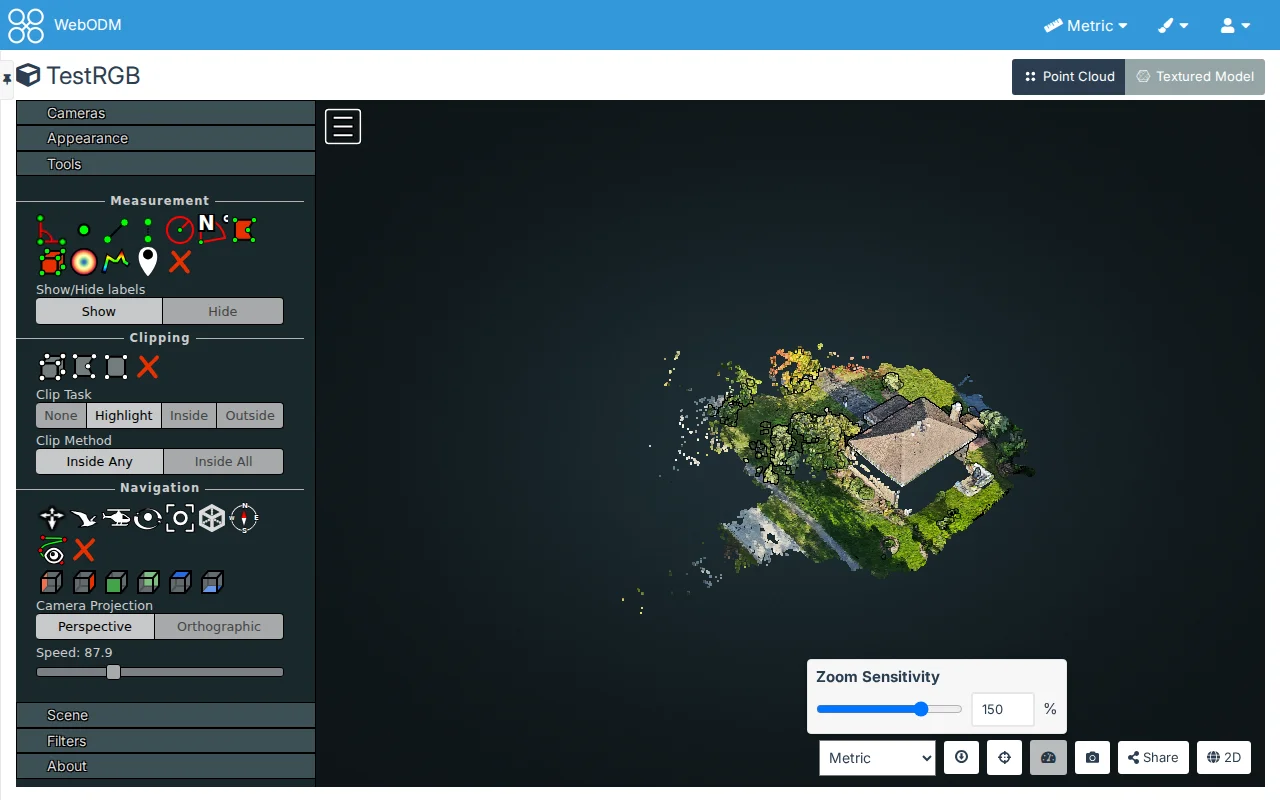
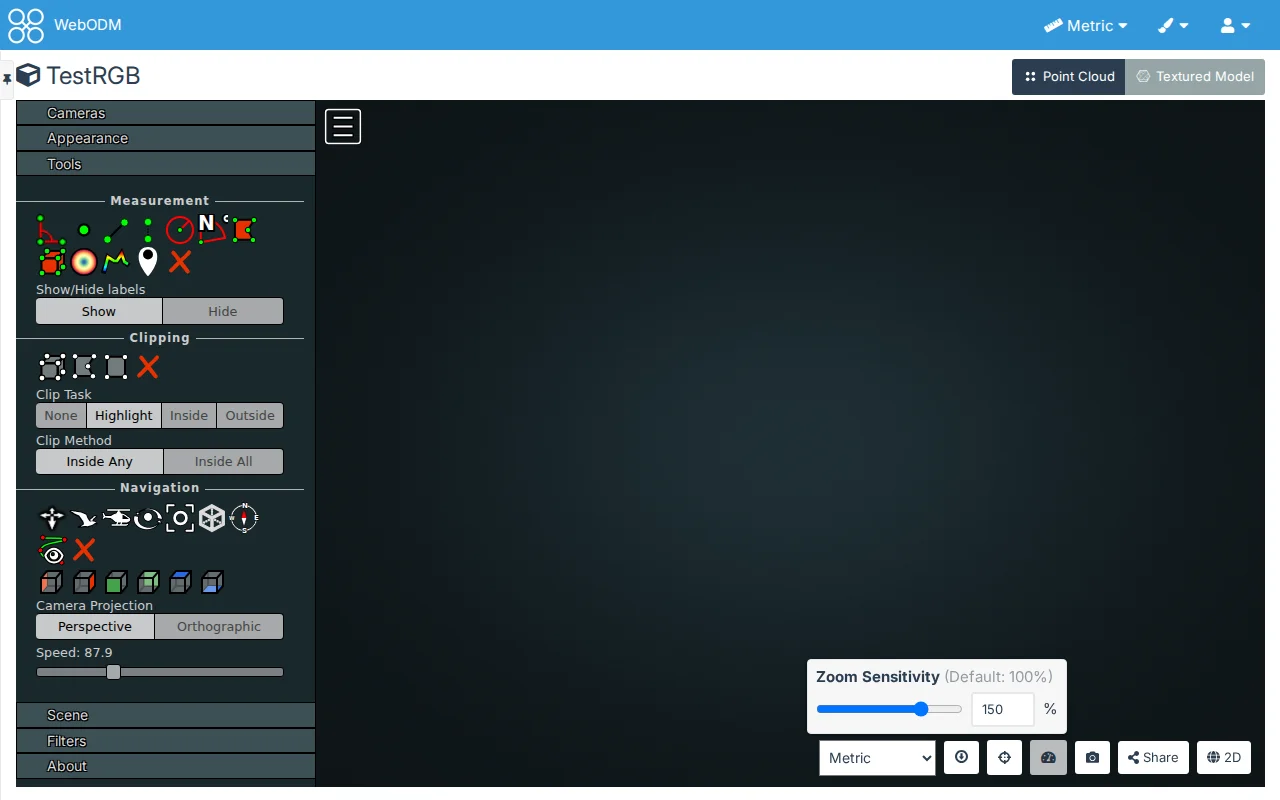
Number settings show their default: on the settings page and Zoom Sensitivity's panel on each map

Changed region(s): [[0.5312, 0.4375, 0.8125, 0.7188], [0.75, 0.8438, 0.7812, 0.875]]

diff --git a/tweakui/templates/settings_setting.html b/tweakui/templates/settings_setting.html
@@ -1,10 +1,10 @@
 {% comment %}A setting on the settings page (features.py): a checkbox with its label and description, or for a number
-setting its label, a slider in its steps and a box for any whole number in its range; and its preview's name for
+setting its label with its default, a slider in its steps and a box for any whole number in its range; and its preview's name for
 settings_page.js; one an admin withholds from the user (access.py) greyed, with the reason{% endcomment %}
 {% load i18n %}
 <div class="tweakui-setting{% if setting.number %} tweakui-number-setting{% endif %}{% if setting.withheld %} tweakui-withheld{% endif %}"{% if setting.preview %} data-preview="{{ setting.preview }}"{% endif %}>
     {% if setting.number %}
-    <label for="tweakui-{{ setting.name }}">{{ setting.label }}</label>
+    <label for="tweakui-{{ setting.name }}">{{ setting.label }} <span class="tweakui-default text-muted">{% blocktrans with value=setting.default %}(Default: {{ value }}){% endblocktrans %}</span></label>
     <div class="tweakui-number">
         <input type="range" data-slider-of="{{ setting.name }}" min="{{ setting.number.min }}" max="{{ setting.number.max }}" step="{{ setting.number.step }}" value="{{ setting.value }}" aria-label="{{ setting.label }}"{% if setting.withheld %} disabled{% endif %}>
         <input type="number" id="tweakui-{{ setting.name }}" class="form-control input-sm theme-border" data-setting="{{ setting.name }}" min="{{ setting.number.min }}" max="{{ setting.number.max }}" step="1" value="{{ setting.value }}" data-saved="{{ setting.value }}"{% if setting.withheld %} disabled{% endif %}>

diff --git a/tweakui/public/main.css b/tweakui/public/main.css
@@ -29,6 +29,7 @@ html.tweakui #side-menu > li:has(> a[href="/plugins/tweakui/"]):not(.tweakui-men
 .tweakui-settings .tweakui-subsettings.tweakui-off .tweakui-subsettings.tweakui-off { opacity: 1; }
 /* A number setting: its label where a checkbox's label is, then the slider, the box and the unit */
 .tweakui-settings .tweakui-number-setting > label { margin-left: 20px; }
+.tweakui-default { font-weight: normal; }
 .tweakui-settings .tweakui-number { display: flex; align-items: center; gap: 10px; margin: 2px 0 4px 20px; max-width: 360px; }
 .tweakui-settings .tweakui-number input[type=range] { flex: 1 1 auto; min-width: 0; }
 .tweakui-settings .tweakui-number input[type=number] { flex: 0 0 80px; width: 80px; }

diff --git a/tweakui/public/__tests__/zoom_override.test.js b/tweakui/public/__tests__/zoom_override.test.js
@@ -292,6 +292,8 @@ describe("Zoom Sensitivity", () => {
     test("the button opens the panel with the saved value; Escape, a click outside and the button close it", () => {
         const p = makePanel(settingsApi(), 70);
         expect(p.button.title).toBe("Zoom Sensitivity");
+        expect(p.container.querySelector("label").textContent).toBe("Zoom Sensitivity (Default: 100%)");
+        expect(p.container.querySelector("label .tweakui-default").className).toContain("text-muted");
         expect(p.input.value).toBe("70");
         expect(p.slider.value).toBe("70");
         expect([p.slider.min, p.slider.max, p.slider.step]).toEqual(["10", "200", "10"]);

diff --git a/tweakui/public/zoom_override.js b/tweakui/public/zoom_override.js
@@ -210,7 +210,10 @@
         var id = "tweakui-zoom-sensitivity-" + which;
         var label = el(doc, "label", "tweakui-zoom-sensitivity-label");
         label.htmlFor = id;
-        label.textContent = "Zoom Sensitivity";
+        label.textContent = "Zoom Sensitivity ";
+        var byDefault = el(doc, "span", "tweakui-default text-muted");
+        byDefault.textContent = "(Default: " + NORMAL + "%)";
+        label.appendChild(byDefault);
         var row = el(doc, "div", "tweakui-number");
         var slider = el(doc, "input", "tweakui-zoom-sensitivity-slider");
         slider.type = "range";

diff --git a/tweakui/tests/test_tweakui.py b/tweakui/tests/test_tweakui.py
@@ -280,6 +280,7 @@ class TestSettingsPage(TweakUITestCase):
         self.assertLess(general.index('data-setting="auto_hide_delay"'), general.index('data-setting="resize_nav_pane"'))
         self.assertIn("Auto-hide Navigation Pane", general)
         self.assertIn("Hide Delay", general)
+        self.assertIn('Hide Delay <span class="tweakui-default text-muted">(Default: 500 ms)</span>', general)
         self.assertIn('data-slider-of="auto_hide_delay" min="200" max="3000" step="100" value="500"', general)
         self.assertIn('type="number" id="tweakui-auto_hide_delay"', general)
         self.assertEqual(self.patch({"auto_hide_nav_pane": True, "auto_hide_delay": 1250}).json(),
@@ -297,6 +298,7 @@ class TestSettingsPage(TweakUITestCase):
             self.assertLess(override, box)
             self.assertLess(box, section.index('data-setting="zoom_sensitivity_%s"' % which))
             self.assertIn('data-slider-of="zoom_sensitivity_%s" min="10" max="200" step="10" value="100"' % which, section)
+            self.assertIn('Zoom Sensitivity <span class="tweakui-default text-muted">(Default: 100%)</span>', section)
         self.assertEqual(self.patch({"zoom_override_2d": True, "zoom_sensitivity_2d": 35, "zoom_sensitivity_3d": 200}).json(),
                          defaults(zoom_override_2d=True, zoom_sensitivity_2d=35, zoom_sensitivity_3d=200))
         self.assertEqual(self.script_settings(self.client)["zoom_sensitivity_2d"], 35)

diff --git a/tweakui/features.py b/tweakui/features.py
@@ -257,14 +257,22 @@ def scripts():
     return names
 
 
+def with_unit(value, unit):
+    """A number with its unit as the settings show it, such as 100% or 500 ms"""
+    if not unit:
+        return str(value)
+    return "%s%s" % (value, unit) if str(unit) == "%" else "%s %s" % (value, unit)
+
+
 def page(values, withheld=()):
-    """The settings page's categories, each setting with the user's value (values: settings.load); a withheld one
-    (access.withheld) is greyed"""
+    """The settings page's categories, each setting with the user's value (values: settings.load) and, for a number
+    setting, its default; a withheld one (access.withheld) is greyed"""
     def control(setting):
         return {"name": setting.name, "label": setting.label, "help": setting.help, "preview": setting.preview,
                 "value": values.get(setting.name, setting.default), "withheld": setting.name in withheld,
                 "number": ({"min": setting.number[0], "max": setting.number[1], "step": setting.number[2]}
                            if setting.number else None),
+                "default": with_unit(setting.default, setting.unit) if setting.number else None,
                 "unit": setting.unit, "parts": [control(p) for p in setting.parts]}
 
     return [{"id": c.id, "label": c.label, "icon": c.icon, "template": c.template,

diff --git a/docs/adding-a-tweak.md b/docs/adding-a-tweak.md
@@ -60,8 +60,8 @@ as `window.TweakUI.settings.scale_bar`.
 `parts` lists settings shown under this one and greyed out while it is off; a part may have parts of its own. A
 setting can also be a whole number: give it a whole-number default and `number=(minimum, maximum, step)`, with
 `unit` for the word after it (Hide Delay: `Setting("auto_hide_delay", 500, ..., number=(200, 3000, 100),
-unit=_("ms"))`). The settings page shows a slider moving in those steps with a box beside it that takes any whole
-number in the range, and the API refuses a value outside it.
+unit=_("ms"))`). The settings page shows the label with the default after it ("Hide Delay (Default: 500 ms)"), a
+slider moving in those steps and a box beside it that takes any whole number in the range, and the API refuses a value outside it.
 
 A setting that superusers should be able to withhold from users also gets `admin_label` and `admin_help`: its
 checkbox and description on Administration > TweakUI (`access.py`). Withheld, the setting is off for users

diff --git a/CHANGELOG.md b/CHANGELOG.md
@@ -2,6 +2,8 @@
 
 ## Unreleased
 
+- The settings page's number settings show their default after their name ("Zoom Sensitivity (Default:
+  100%)", "Hide Delay (Default: 500 ms)"), and so does the Zoom Sensitivity panel on each map.
 - 2D Map and 3D Map > Controls > Zoom Override > Zoom Sensitivity (100% by default): how far a mouse wheel notch
   zooms, from 10% to 200%, for each map. It is on the settings page and on the map itself: a gauge button (at the
   bottom left of the 2D map, beside Share in the 3D view) opens a slider and a box that the zoom follows at once,

diff --git a/docs/map-2d.md b/docs/map-2d.md
@@ -55,7 +55,8 @@ wheel, the + button and a pinch. Past the orthophoto's own detail, its pixels ar
 
 ### Zoom Sensitivity
 
-A part of Zoom Override, at 100% unless you change it.
+A part of Zoom Override, at 100% unless you change it. Its label says "(Default: 100%)", on the settings page
+and in the panel on the map, as a reminder that 100% is WebODM's own.
 
 ![The Zoom Sensitivity panel open beside its button at the bottom left of the map](../tweakui/public/previews/zoom-sensitivity-2d.webp)
 

diff --git a/docs/map-3d.md b/docs/map-3d.md
@@ -28,7 +28,8 @@ as before.
 
 ### Zoom Sensitivity
 
-A part of Zoom Override, at 100% unless you change it.
+A part of Zoom Override, at 100% unless you change it. Its label says "(Default: 100%)", on the settings page
+and in the panel on the map, as a reminder that 100% is WebODM's own.
 
 ![The Zoom Sensitivity panel open above its button in the 3D view's buttons](../tweakui/public/previews/zoom-sensitivity-3d.webp)
 
